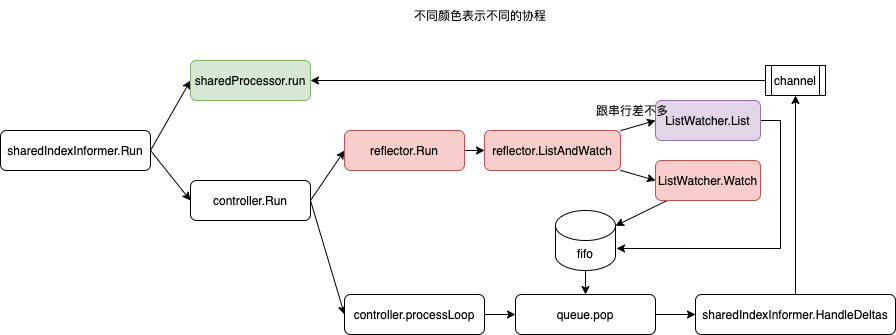
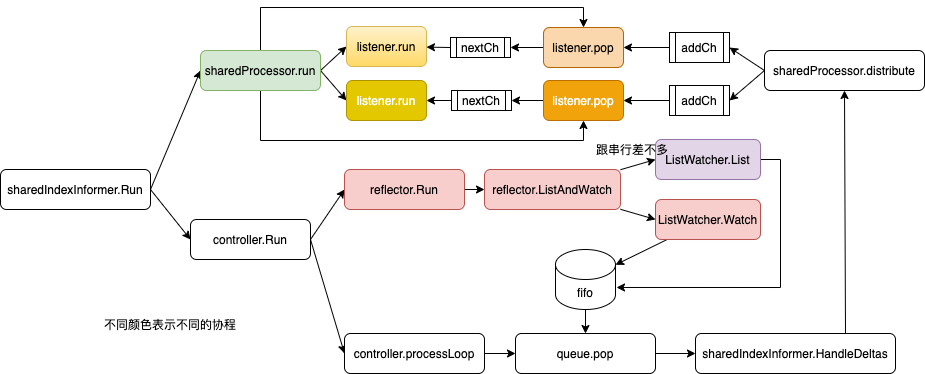
[fix]

diff --git a/_posts/Kubernetes/Object/2020-07-20-client_go.md b/_posts/Kubernetes/Object/2020-07-20-client_go.md
@@ -199,6 +199,7 @@ informer 机制主要两个流程
 
 1. Reflector 通过ListWatcher 同步apiserver 数据（只启动时搞一次），并watch apiserver ，将event 加入到 Queue 中
 2. controller 从 Queue中获取event，更新存储，并触发Processor 业务层注册的 ResourceEventHandler
+
 ![](/public/upload/kubernetes/informer_overview.png)
 
 ### Reflector
@@ -301,7 +302,7 @@ Reflector.Run ==> pager.List + listerWatcher.Watch ==> Reflector.watchHandler ==
 
 ResourceVersion（资源版本号）非常重要，Kubernetes 中所有的资源都拥有该字段，它标识当前资源对象的版本号，每次修改（CUD）当前资源对象时，Kubernetes API Server 都会更改 ResourceVersion，这样 client-go 执行 Watch 操作时可以根据ResourceVersion 来确定当前资源对象是否发生了变化。
 
-DeltaFIFO 和 FIFO 一样也是一个队列，DeltaFIFO里面的元素是一个 Delta。DeltaFIFO实现了Store和 Queue Interface
+DeltaFIFO 和 FIFO 一样也是一个队列，DeltaFIFO里面的元素是一个 Delta。DeltaFIFO实现了Store和 Queue Interface。生产者为Reflector，消费者为 Pop() 函数。
 ```go
 // k8s.io/client-go/tools/cache/delta_fifo.go
 type Delta struct {
@@ -316,11 +317,11 @@ type DeltaFIFO struct {
 ```
 ADD/UPDATE 时判断items 是否包含元素，若包含则更新，不包含则加入items并写入queue。DELETE时直接从items 中移除，queue中不管。因此 items和queue中所包含的Key可能不一致，会定期resync。
 
+![](/public/upload/kubernetes/client_go_informer_process.png)
+
 ### Watch event 消费
 
 sharedIndexInformer.Run ==> controller.Run ==> controller.processLoop ==> for Queue.Pop 也就是 sharedIndexInformer.HandleDeltas ==> 更新LocalStore + processor.distribute
-
-watch 到的event(包含资源对象数据)，先看本地cache 有没有，有就是更新，没有就是新增。
 
 ```go
 func (s *sharedIndexInformer) HandleDeltas(obj interface{}) error {
@@ -347,8 +348,9 @@ func (s *sharedIndexInformer) HandleDeltas(obj interface{}) error {
 ### processor 是如何处理数据的
 
 两条主线
-1. sharedIndexInformer.Run ==> sharedProcessor.run ==> sharedProcessor.run/pop   从channel 读取数据并执行
-2. sharedIndexInformer.HandleDeltas ==> sharedProcessor.distribute ==> processorListener.addCh 往channel 里塞数据
+1. sharedIndexInformer.HandleDeltas ==> sharedProcessor.distribute ==> 多个 processorListener.addCh 往channel 里塞数据。
+2. sharedIndexInformer.Run ==> sharedProcessor.run ==> sharedProcessor.pop   消费channel数据
+这里要注意的是，sharedProcessor.distribute 是将消息分发给多个processorListener， processorListener.pop 必须处理的非常快，否则就会阻塞distribute 执行。
 
 ```go
 // k8s.io/client-go/tools/cache/shared_informer.go
@@ -391,7 +393,7 @@ func (p *sharedProcessor) run(stopCh <-chan struct{}) {
 
 ![](/public/upload/kubernetes/client_go_processor.png)
 
-消息流转的具体路径：addCh ==> notificationToAdd ==> pendingNotifications ==> notification ==> nextCh
+消息流转的具体路径：addCh ==> notificationToAdd ==> pendingNotifications ==> notification ==> nextCh。 搞这么复杂的原因就是：pop作为addCh 的消费逻辑 必须非常快，而下游nextCh 的消费函数run 执行的速度看业务而定，中间要通过pendingNotifications 缓冲。
 
 ```go
 func (p *processorListener) pop() {
@@ -437,8 +439,8 @@ func (p *processorListener) run() {
 	}, 1*time.Second, stopCh)
 }
 ```
+pendingNotifications是一个ring buffer， 默认长度为1024，如果被塞满，则扩容至2倍大小。
 
-可以看到，对于handler 来说，除非特殊场景，否则一般不需要另起协程了。
 
 ### watch 是如何实现的？
 
@@ -588,4 +590,3 @@ func (r *Request) request(ctx context.Context, fn func(*http.Request, *http.Resp
 
 ![](/public/upload/kubernetes/client_go_informer_object.png)
 
-![](/public/upload/kubernetes/client_go_informer_process.png)
